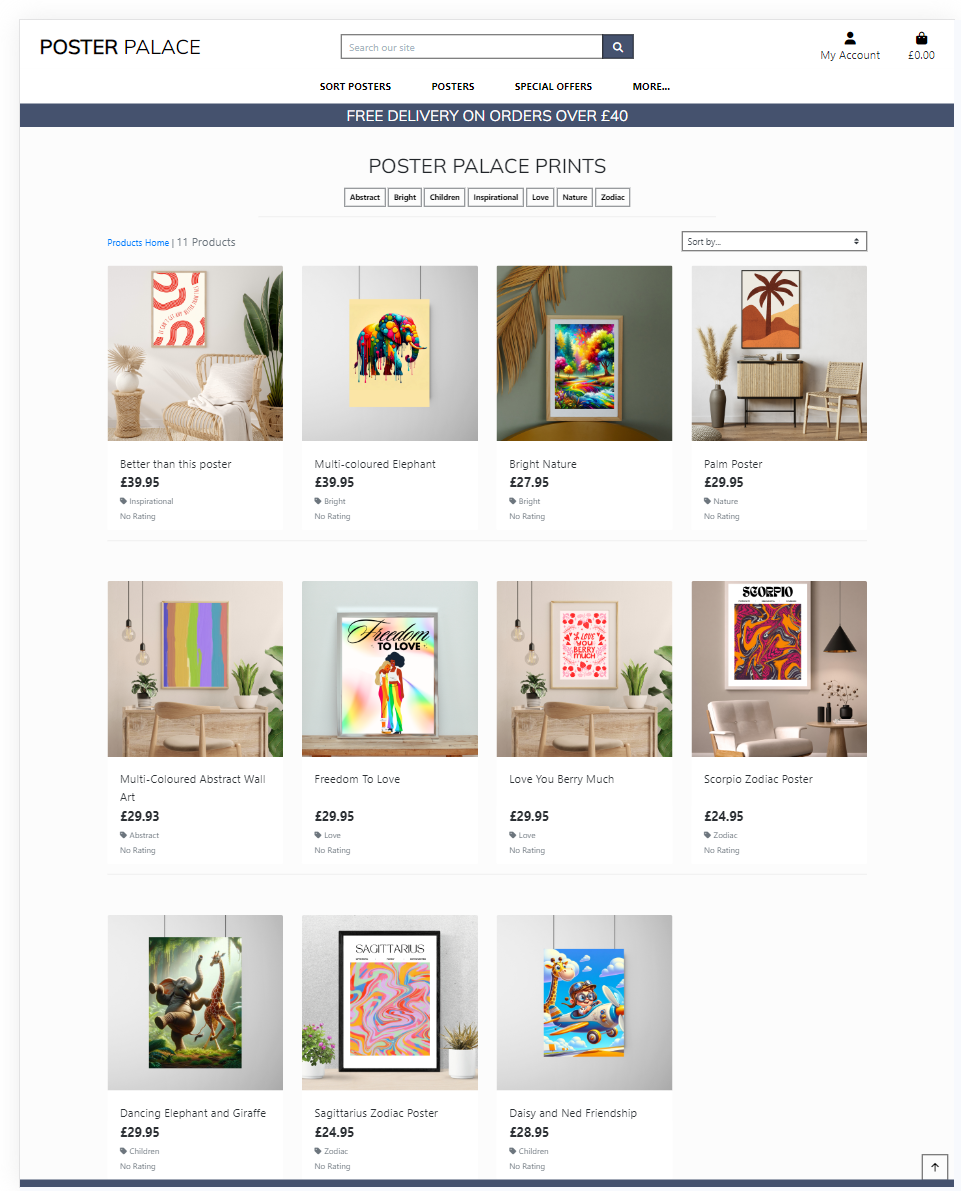
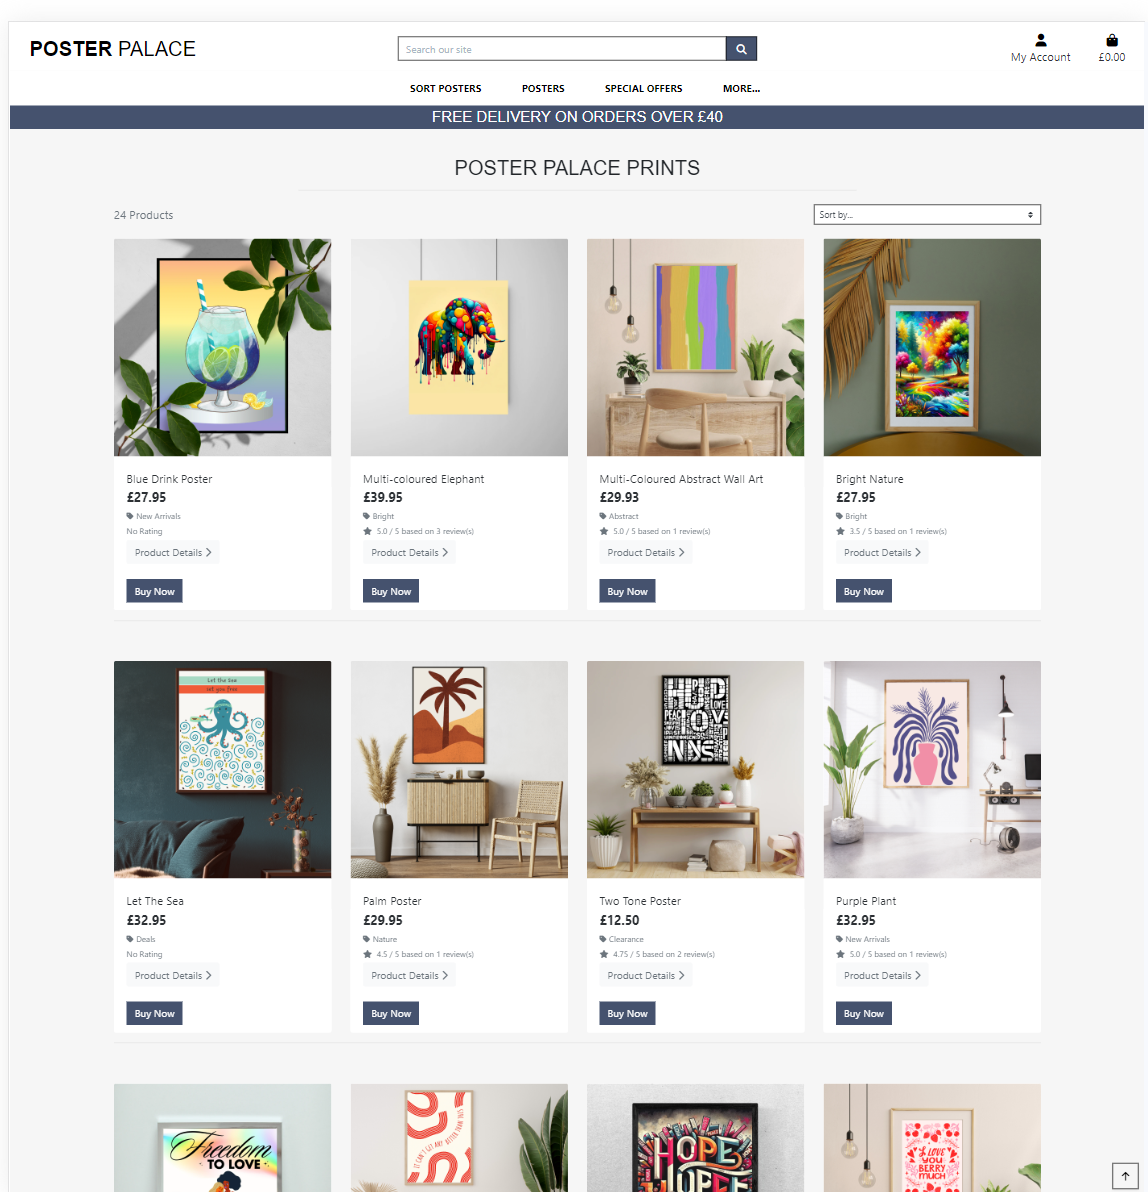
Add product details and buy now button to products page. Update bag.html, products html and update README with details

diff --git a/products/templates/products/includes/quantity_input_script.html b/products/templates/products/includes/quantity_input_script.html
@@ -1,44 +1,44 @@
 <script type="text/javascript">
-
     // Disable +/- buttons outside 1-99 range
     function handleEnableDisable(itemId) {
-        var currentValue = parseInt($(`#id_qty_${itemId}`).val());
-        var minusDisabled = currentValue < 2;
-        var plusDisabled = currentValue > 98;
-        $(`#decrement-qty_${itemId}`).prop('disabled', minusDisabled);
-        $(`#increment-qty_${itemId}`).prop('disabled', plusDisabled);
+        let currentValue = parseInt($(`.qty_input[data-item_id="${itemId}"`).val());
+        let minusDisabled = currentValue < 2;
+        let plusDisabled = currentValue > 98;
+        $(`.decrement-qty[data-item_id="${itemId}"`).prop('disabled', minusDisabled);
+        $(`.increment-qty[data-item_id="${itemId}"`).prop('disabled', plusDisabled);
     }
-
     // Ensure proper enabling/disabling of all inputs on page load
-    var allQtyInputs = $('.qty_input');
-    for(var i = 0; i < allQtyInputs.length; i++){
-        var itemId = $(allQtyInputs[i]).data('item_id');
+    let allQtyInputs = $('.qty_input');
+    for(let i = 0; i < allQtyInputs.length; i++){
+        let itemId = $(allQtyInputs[i]).data('item_id');
         handleEnableDisable(itemId);
     }
-
     // Check enable/disable every time the input is changed
     $('.qty_input').change(function() {
-        var itemId = $(this).data('item_id');
+        let itemId = $(this).data('item_id');
         handleEnableDisable(itemId);
     });
-
     // Increment quantity
     $('.increment-qty').click(function(e) {
        e.preventDefault();
-       var closestInput = $(this).closest('.input-group').find('.qty_input')[0];
-       var currentValue = parseInt($(closestInput).val());
+       let closestInput = $(this).closest('.input-group').find('.qty_input');
+       let currentValue = parseInt($(closestInput).val());
        $(closestInput).val(currentValue + 1);
-       var itemId = $(this).data('item_id');
+       let itemId = $(this).data('item_id');
        handleEnableDisable(itemId);
     });
-
-    // Decrement quantity
+// Decrement quantity
     $('.decrement-qty').click(function(e) {
        e.preventDefault();
-       var closestInput = $(this).closest('.input-group').find('.qty_input')[0];
-       var currentValue = parseInt($(closestInput).val());
-       $(closestInput).val(currentValue - 1);
-       var itemId = $(this).data('item_id');
+       let closestInput = $(this).closest('.input-group').find('.qty_input');
+       let currentValue = parseInt($(closestInput).val());
+       if (currentValue > 1) {
+        $(closestInput).val(currentValue - 1);
+       } else {
+        $(closestInput).val(1);
+       }
+       
+       let itemId = $(this).data('item_id');
        handleEnableDisable(itemId);
     });
 </script>

diff --git a/products/templates/products/products.html b/products/templates/products/products.html
@@ -85,9 +85,18 @@
                                                 {{ product.averageReview }} / 5
                                                 based on {{ product.countReview }} review(s)
                                             </small>
-                                        {% else %}
-                                            <small class="text-muted">No Rating</small>
-                                        {% endif %}
+                                            {% else %}
+                                                <small class="text-muted">No Rating</small>
+                                            {% endif %}
+                                            <p class="small mt-1 mb-0"></p>
+                                                <a class='btn btn-light text-muted text-small' href="{% url 'product_detail' product.id %}">
+                                                    Product Details <i class="fa-solid fa-chevron-right"></i>
+                                                </a>
+                                            </p>
+                                            <a href="{% url 'add_to_bag' product.id %}" 
+                                                aria-label="Add {{ product.name }} to Bag" 
+                                                class="btn btn-black rounded-0 mt-2">Buy Now</a>
+                                            
                                         </div>
                                     </div>
                                 </div>
@@ -121,9 +130,9 @@
 <!-- product display section ends-->
 
     <!-- arrow up button-->
-    <div class="btt-button shadow-sm rounded-0 border border-black">
+    <div class="btt-button shadow-sm rounded-0 border border-warning">
         <a class="btt-link d-flex h-100">
-            <i class="fas fa-arrow-up text-black mx-auto my-auto"></i>
+            <i class="fas fa-arrow-up text-warning mx-auto my-auto"></i>
         </a>	
     </div>
 {% endblock %}

diff --git a/products/templates/products/product_detail.html b/products/templates/products/product_detail.html
@@ -1,4 +1,5 @@
 {% extends "base.html" %}
+<meta name="viewport" content="width=device-width, initial-scale=1, shrink-to-fit=no">
 {% load static %}
 {% load crispy_forms_tags %}
 
@@ -72,7 +73,7 @@
                                     <div class="input-group">
                                         <div class="input-group-prepend">
                                             <button class="decrement-qty btn btn-black rounded-0" 
-                                                data-item_id="{{ product.id }}" id="decrement-qty_{{ product.id }}">
+                                                data-item_id="{{ product.id }}" id="decrement-qty_{{ product.id }}" aria-label="decrement-button">
                                                 <span class="icon">
                                                     <i class="fas fa-minus"></i>
                                                 </span>
@@ -84,7 +85,7 @@
                                             id="id_qty_{{ product.id }}">
                                         <div class="input-group-append">
                                             <button class="increment-qty btn btn-black rounded-0"
-                                                data-item_id="{{ product.id }}" id="increment-qty_{{ product.id }}">
+                                                data-item_id="{{ product.id }}" id="increment-qty_{{ product.id }}" aria-label="increment-button">
                                                 <span class="icon">
                                                     <i class="fas fa-plus"></i>
                                                 </span>

diff --git a/bag/templates/bag/bag.html b/bag/templates/bag/bag.html
@@ -57,13 +57,13 @@
                             </div>
                             <div class="row"><div class="col"><hr></div></div>
                         {% endfor %}
-                        <div class="btt-button shadow-sm rounded-0 border border-black">
-                            <a class="btt-link d-flex h-100">
-                                <i class="fas fa-arrow-up text-black mx-auto my-auto"></i>
-                            </a>	
-                        </div>
+                            <!-- arrow up button-->
+                            <div class="btt-button shadow-sm rounded-0 border border-warning">
+                                <a class="btt-link d-flex h-100">
+                                    <i class="fas fa-arrow-up text-warning mx-auto my-auto"></i>
+                                </a>	
+                            </div>
                     </div>
-
                     <!-- Bag on medium + devices -->
                     <div class="table-responsive rounded d-none d-md-block">
                         <table class="table table-sm table-borderless">

diff --git a/templates/includes/main-footer.html b/templates/includes/main-footer.html
@@ -38,7 +38,7 @@
             </div>
             <!-- Copyright information -->
             <p class="copyright text-white text-center mt-5"> This is a fictional site created as part of a project - Developer:
-                <a href="https://todiane.dev" target="_blank" class="text-white text-small font-weight-bold" aria-label="Developer link" rel="noopener noreferrer">Diane Corriette</a> © 2023
+                <a href="https://linkedin.com/in/todianedev" target="_blank" class="text-white" aria-label="Developer link" rel="noopener noreferrer">Diane Corriette</a> © 2023
             </p>
         </div>
     </div>

diff --git a/home/templates/home/featured.html b/home/templates/home/featured.html
@@ -19,6 +19,7 @@
                             <p class="display-6">Berry Love</p>
                             <!-- Product price-->
                             <p class="display-6">&#163;19.95</p>
+                            
                         </div>
                     </div>
                 </div>

diff --git a/static/css/style.css b/static/css/style.css
@@ -28,6 +28,10 @@ p {
     
 }
 
+.small-font {
+    font-size: smaller;
+}
+
 
  /* -------------------------------- Footer */
 
@@ -40,7 +44,7 @@ p {
 }
 
 .footer-dark {
-    position: relative;
+    /* position: relative; */
     color:#f0f9ff;
     background-color:#45526e;
     width: 100%;

diff --git a/home/templates/home/index.html b/home/templates/home/index.html
@@ -33,6 +33,6 @@ Poster Palace
 
 {% include "home/featured.html" %}
 
-{% include "home/quality-section.html" %}
+{% include "home/quality_section.html" %}
                         
 {% endblock %}

diff --git a/poster_palace/settings.py b/poster_palace/settings.py
@@ -31,12 +31,12 @@ SECRET_KEY = os.environ.get('SECRET_KEY', '')
 
 
 # SECURITY WARNING: don't run with debug turned on in production!
-DEBUG = False
+DEBUG = True
 
 
 ALLOWED_HOSTS = [
     'posterpalace-a7414f135cf3.herokuapp.com',
-    'localhost',
+    '8000-todiane-posterpalace-tkjbeti4r4n.ws-eu107.gitpod.io',
 
 ]
 
@@ -44,6 +44,7 @@ ALLOWED_HOSTS = [
 
 CSRF_TRUSTED_ORIGINS = [
     'https://posterpalace-a7414f135cf3.herokuapp.com/',
+    'https://8000-todiane-posterpalace-tkjbeti4r4n.ws-eu107.gitpod.io/',
 ]
 
 

diff --git a/bag/views.py b/bag/views.py
@@ -11,8 +11,8 @@ def view_bag(request):
 
 def add_to_bag(request, item_id):
     product = get_object_or_404(Product, pk=item_id)
-    quantity = int(request.POST.get("quantity"))
-    redirect_url = request.POST.get("redirect_url")
+    quantity = int(request.POST.get("quantity", 1))
+    redirect_url = request.POST.get('redirect_url', reverse('products'))
     size = None
     if "product_size" in request.POST:
         size = request.POST["product_size"]
